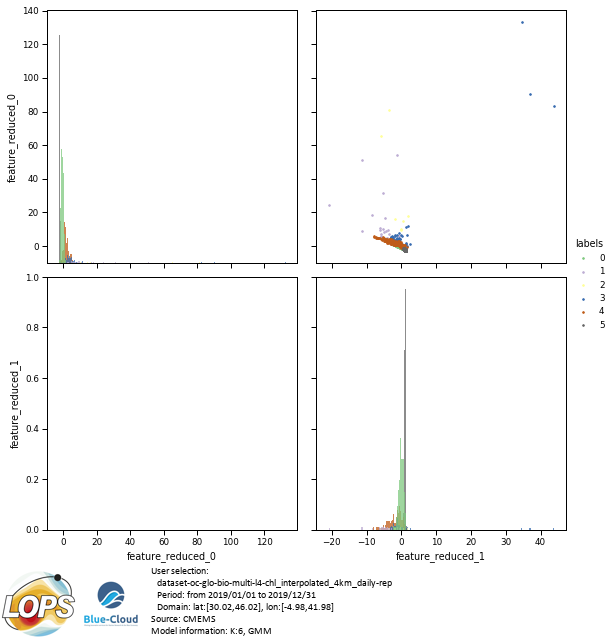
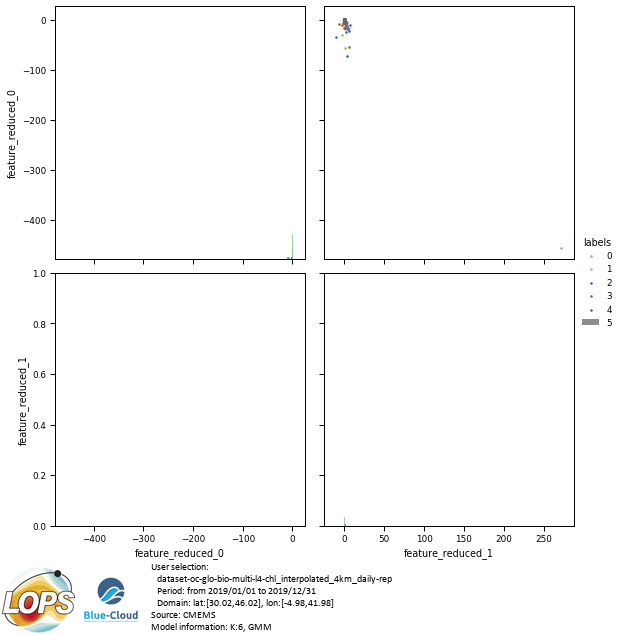
[add] choose values in pallette depending on unique values in the dataset in function scatter_PDF

Changed region(s): [[0.0, 0.0, 0.9935, 1.0]]

diff --git a/preprocessing_OR.py b/preprocessing_OR.py
@@ -192,10 +192,8 @@ def OR_delate_NaNs(X, var_name, mask_path='auto'):
         stacked_mask = X[var_name].notnull()
         mask = stacked_mask.unstack('sampling').to_dataset()
         mask = mask.sortby([sampling_dims[0], sampling_dims[1]])
-        print(np.shape(mask[var_name]))
         if 'lon' in sampling_dims[0]:
             mask = mask.transpose(sampling_dims[1], sampling_dims[0], ...)
-        print(np.shape(mask[var_name]))
         mask = mask.rename({var_name: 'mask'})
     else:
         #use mask
@@ -224,15 +222,21 @@ def OR_delate_NaNs(X, var_name, mask_path='auto'):
     #delate time series all NaNs
     if np.any(np.isnan(X[var_name].values)):
         X = X[var_name].where(~X[var_name].isnull(), drop=True).to_dataset()
+    print(X)
+        
+    #delate time series with any NaN     
+    if np.any(np.isnan(X[var_name].values)):
+         X = X.dropna('sampling', how='any')
+    print(X)  
 
     # interpolation
-    if np.any(np.isnan(X[var_name].values)):
-        print('Interpolation is applied')
-        if 'feature' not in list(X.coords.keys()):
-            raise ValueError(
-                'Dataset should contains feature coordinate. Please, change the name of your feature coordinate to "feature" or use weekly_mean function.')
-        X = X[var_name].interpolate_na(
-            dim='feature', method="linear", fill_value="extrapolate").to_dataset(name=var_name)
+    #if np.any(np.isnan(X[var_name].values)):
+    #    print('Interpolation is applied')
+    #    if 'feature' not in list(X.coords.keys()):
+    #        raise ValueError(
+    #            'Dataset should contains feature coordinate. Please, change the name of your feature coordinate to "feature" or use weekly_mean function.')
+    #    X = X[var_name].interpolate_na(
+    #        dim='feature', method="linear", fill_value="extrapolate").to_dataset(name=var_name)
 
     # check if NaNs in dataset
     if np.any(np.isnan(X[var_name].values)):

diff --git a/Plotter_OR.py b/Plotter_OR.py
@@ -114,6 +114,10 @@ class Plotter_OR:
         df = df.rename_axis(None, axis=1)
         df = df.rename(columns={0: "feature_reduced_0",
                                 1: "feature_reduced_1", '': "labels"})
+        # when not all classes in subset
+        print(np.unique(df["labels"]).astype(int))
+        cpal = [cpal[i] for i in np.unique(df["labels"]).astype(int)]
+        print(cpal)
 
         defaults = {'height': 4, 'aspect': 1, 'hue': 'labels',
                     'despine': False, 'palette': cpal}
